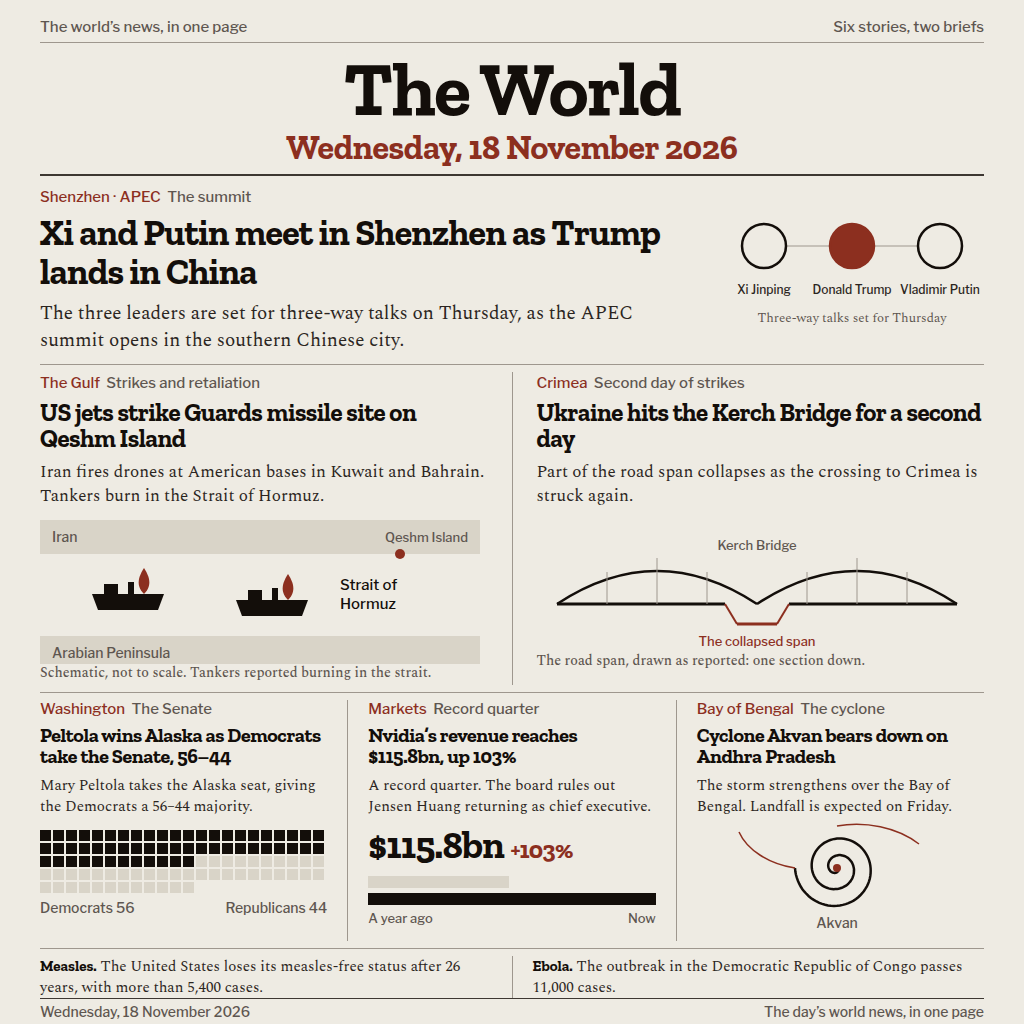
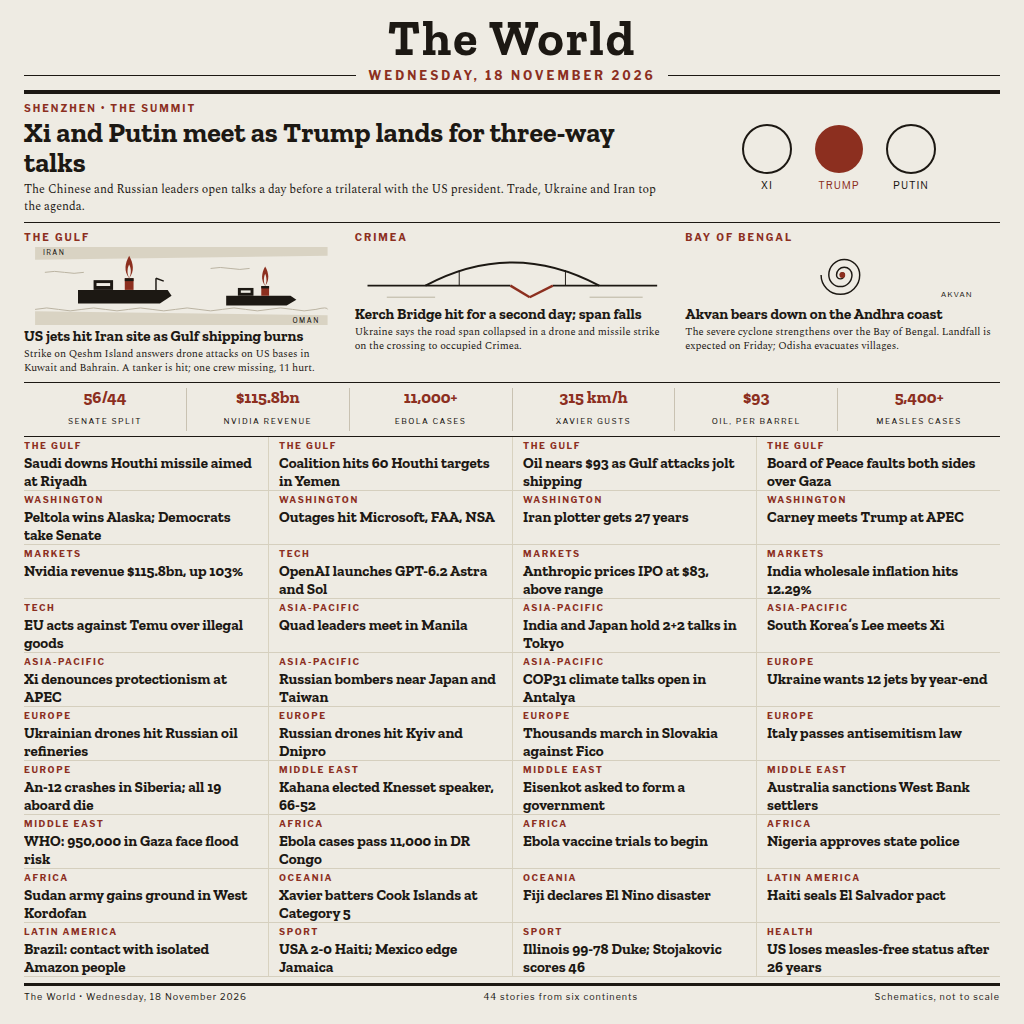
Round 2: dense 44-story front page, redrawn tankers, larger headlines

Changed region(s): [[0.0, 0.0, 0.9688, 1.0], [0.0312, 0.0, 0.25, 0.0312], [0.8125, 0.0, 0.9688, 0.0312]]

diff --git a/main.ts b/main.ts
@@ -1,15 +1,6 @@
-// News-image-20261118 entry (Node 22, standard library only).
-//
-// The entry is the image beside this file: the program copies it to the
-// grader's output directory so the judge sees exactly those bytes.
-// Outside the grader, MAKEFUN_OUTPUT_DIR stands in for /output:
-//   mkdir -p out && MAKEFUN_OUTPUT_DIR=out node main.ts
+import { copyFileSync, mkdirSync } from "node:fs";
+import { join } from "node:path";
 
-import { copyFileSync, mkdirSync } from 'node:fs';
-import { dirname, join } from 'node:path';
-import { fileURLToPath } from 'node:url';
-
-const here = dirname(fileURLToPath(import.meta.url));
-const outDir = process.env.MAKEFUN_OUTPUT_DIR ?? '/output';
+const outDir = process.env.MAKEFUN_OUTPUT_DIR ?? "/output";
 mkdirSync(outDir, { recursive: true });
-copyFileSync(join(here, 'entry.png'), join(outDir, 'entry.png'));
+copyFileSync(new URL("./entry.png", import.meta.url), join(outDir, "entry.png"));

diff --git a/README.md b/README.md
@@ -1,11 +1,11 @@
 # News Image: 18 November 2026
 
-[![make.fun](https://make.fun/badge/news-image-20261118.svg)](https://make.fun/bounty/news-image-20261118)
-[![rank](https://make.fun/badge/news-image-20261118/vinnvv/news-image-20261118/rank.svg)](https://make.fun/bounty/news-image-20261118)
-[![reward](https://make.fun/badge/news-image-20261118/vinnvv/news-image-20261118/reward.svg)](https://make.fun/bounty/news-image-20261118)
+[![News Image: 18 November 2026](https://make.fun/badge/news-image-20261118.svg)](https://make.fun/bounty/news-image-20261118)
+[![Rank](https://make.fun/badge/news-image-20261118/vinnvv/news-image-20261118/rank.svg)](https://make.fun/bounty/news-image-20261118)
+[![Reward](https://make.fun/badge/news-image-20261118/vinnvv/news-image-20261118/reward.svg)](https://make.fun/bounty/news-image-20261118)
 
-One image summing up the world's news of Wednesday, 18 November 2026: the Xi–Putin meeting in Shenzhen at APEC as Trump lands in China, the US strikes on Qeshm Island and Iran's drone retaliation, Ukraine's second-day strike on the Kerch Bridge, Peltola's Alaska win giving Democrats a 56–44 Senate majority, Nvidia's record $115.8bn quarter, and Cyclone Akvan bearing down on Andhra Pradesh.
+Entry for the make.fun bounty "Sum up 18 November's world news in one image": a code-drawn one-page newspaper, "The World", summing up Wednesday 18 November 2026 in 44 verified stories across six continents, led by the Shenzhen summit and with a day-in-numbers strip. Every picture on the page is drawn in code (HTML and inline SVG rendered to PNG); it contains no photographs.
 
-The front page is drawn entirely with code: typography and hand-built SVG diagrams on a newsprint layout. `main.ts` copies the finished image to the output directory.
+`main.ts` (Node, standard library only) copies `entry.png` to the output directory and writes it there as `entry.png`. Run it twice and the outputs are byte-identical.
 
 Built for [make.fun](https://make.fun). Referral code: `9j79nw8m`.
